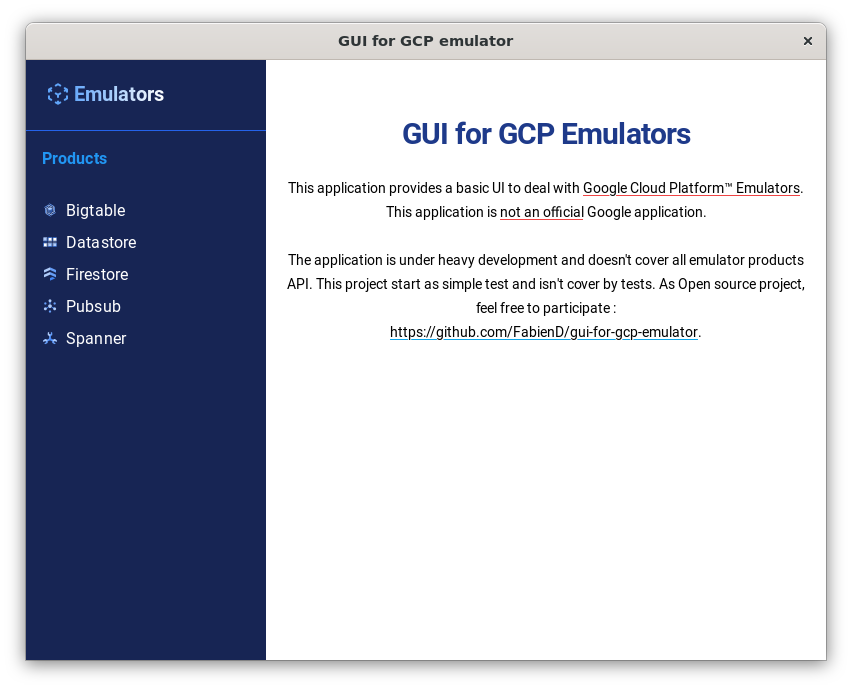
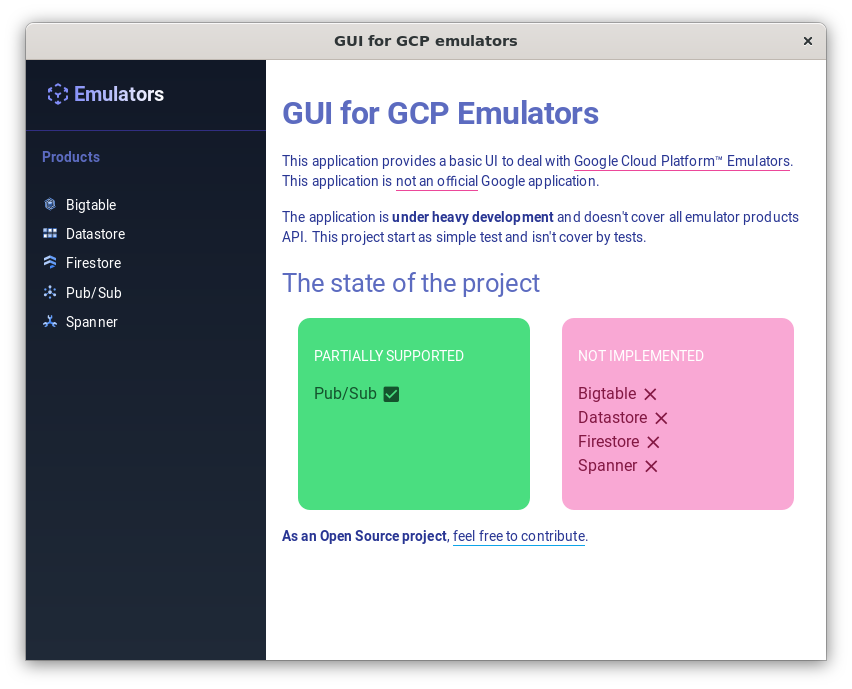
Update doc gui captures

diff --git a/src/pages/Home.tsx b/src/pages/Home.tsx
@@ -15,7 +15,7 @@ function Home(): React.ReactElement {
                 This application provides a basic UI to deal with <a href="https://cloud.google.com/sdk/gcloud/reference/beta/emulators" target="_blank" className="underline decoration-solid underline-offset-4 decoration-pink-500">Google Cloud Platform™ Emulators</a>. 
                 This application is <span className="underline decoration-solid underline-offset-4 decoration-pink-500">not an official</span> Google application.
             </Typography>
-            <Typography variant="body1" className="mt-1">
+            <Typography variant="body1" className="mt-4">
             The application is <strong>under heavy development</strong> and doesn't cover all emulator products API.
                 This project start as simple test and isn't cover by tests. 
             </Typography>
@@ -25,24 +25,24 @@ function Home(): React.ReactElement {
             </Typography>
 
             <Box className="flex">
-                <CardContent className="bg-indigo-400 rounded-xl p-4 mx-4">
+                <CardContent className="bg-green-400 rounded-xl p-4 mx-4 w-1/2">
                     <Typography variant="h3" className="text-sm text-white uppercase">
-                        partially supported
+                        Partially supported
                     </Typography>
-                    <ul className="my-4 text-indigo-900">
-                        <li><NavLink to="/pubsub">Pub/Sub </NavLink><CheckBoxIcon className="text-indigo-900" /></li>
+                    <ul className="my-4 text-green-900">
+                        <li><NavLink to="/pubsub">Pub/Sub </NavLink><CheckBoxIcon className="text-green-900" /></li>
                     </ul>
                 </CardContent>
 
-                <CardContent className="bg-purple-300 rounded-xl p-4 mx-4">
+                <CardContent className="bg-pink-300 rounded-xl p-4 mx-4  w-1/2">
                     <Typography variant="h3" className="text-sm text-white uppercase">
                         Not implemented
                     </Typography>
-                    <ul className="my-4 text-purple-900">
-                        <li>Bigtable <CloseIcon className="text-purple-900" /></li>
-                        <li>Datastore <CloseIcon className="text-purple-900" /></li>
-                        <li>Firestore <CloseIcon className="text-purple-900" /></li>
-                        <li>Spanner <CloseIcon className="text-purple-900" /></li>
+                    <ul className="my-4 text-pink-900">
+                        <li>Bigtable <CloseIcon className="text-pink-900" /></li>
+                        <li>Datastore <CloseIcon className="text-pink-900" /></li>
+                        <li>Firestore <CloseIcon className="text-pink-900" /></li>
+                        <li>Spanner <CloseIcon className="text-pink-900" /></li>
                     </ul>
                 </CardContent>
             </Box>

diff --git a/src/theme.tsx b/src/theme.tsx
@@ -32,9 +32,9 @@ const theme = createTheme({
         color: primary,
       },
       h3 : {
-        fontSize: "1.4em",
+        fontSize: "1.2em",
         fontWeight: 400,
-        margin: "0.6em 0 0.6em 0",
+        margin: "0.8em 0 0.8em 0",
         color: primary,
       },
       body1: {

diff --git a/README.md b/README.md
@@ -18,7 +18,8 @@ As **Open source project**, feel free to participate, contribute, fork, etc. :
 - PubSub emulator partially support.
 
 ![GUI for GCP - Home](./doc/assets/gcp_gui_home_preview.png)
-![GUI for GCP - Pubsub](./doc/assets/gcp_gui_pubsub_preview.png)
+![GUI for GCP - Pubsub topic](./doc/assets/gcp_gui_pubsub_topic_preview.png)
+![GUI for GCP - Pubsub subscription](./doc/assets/gcp_gui_pubsub_subscription_preview.png)
 
 ## Next steps
 
